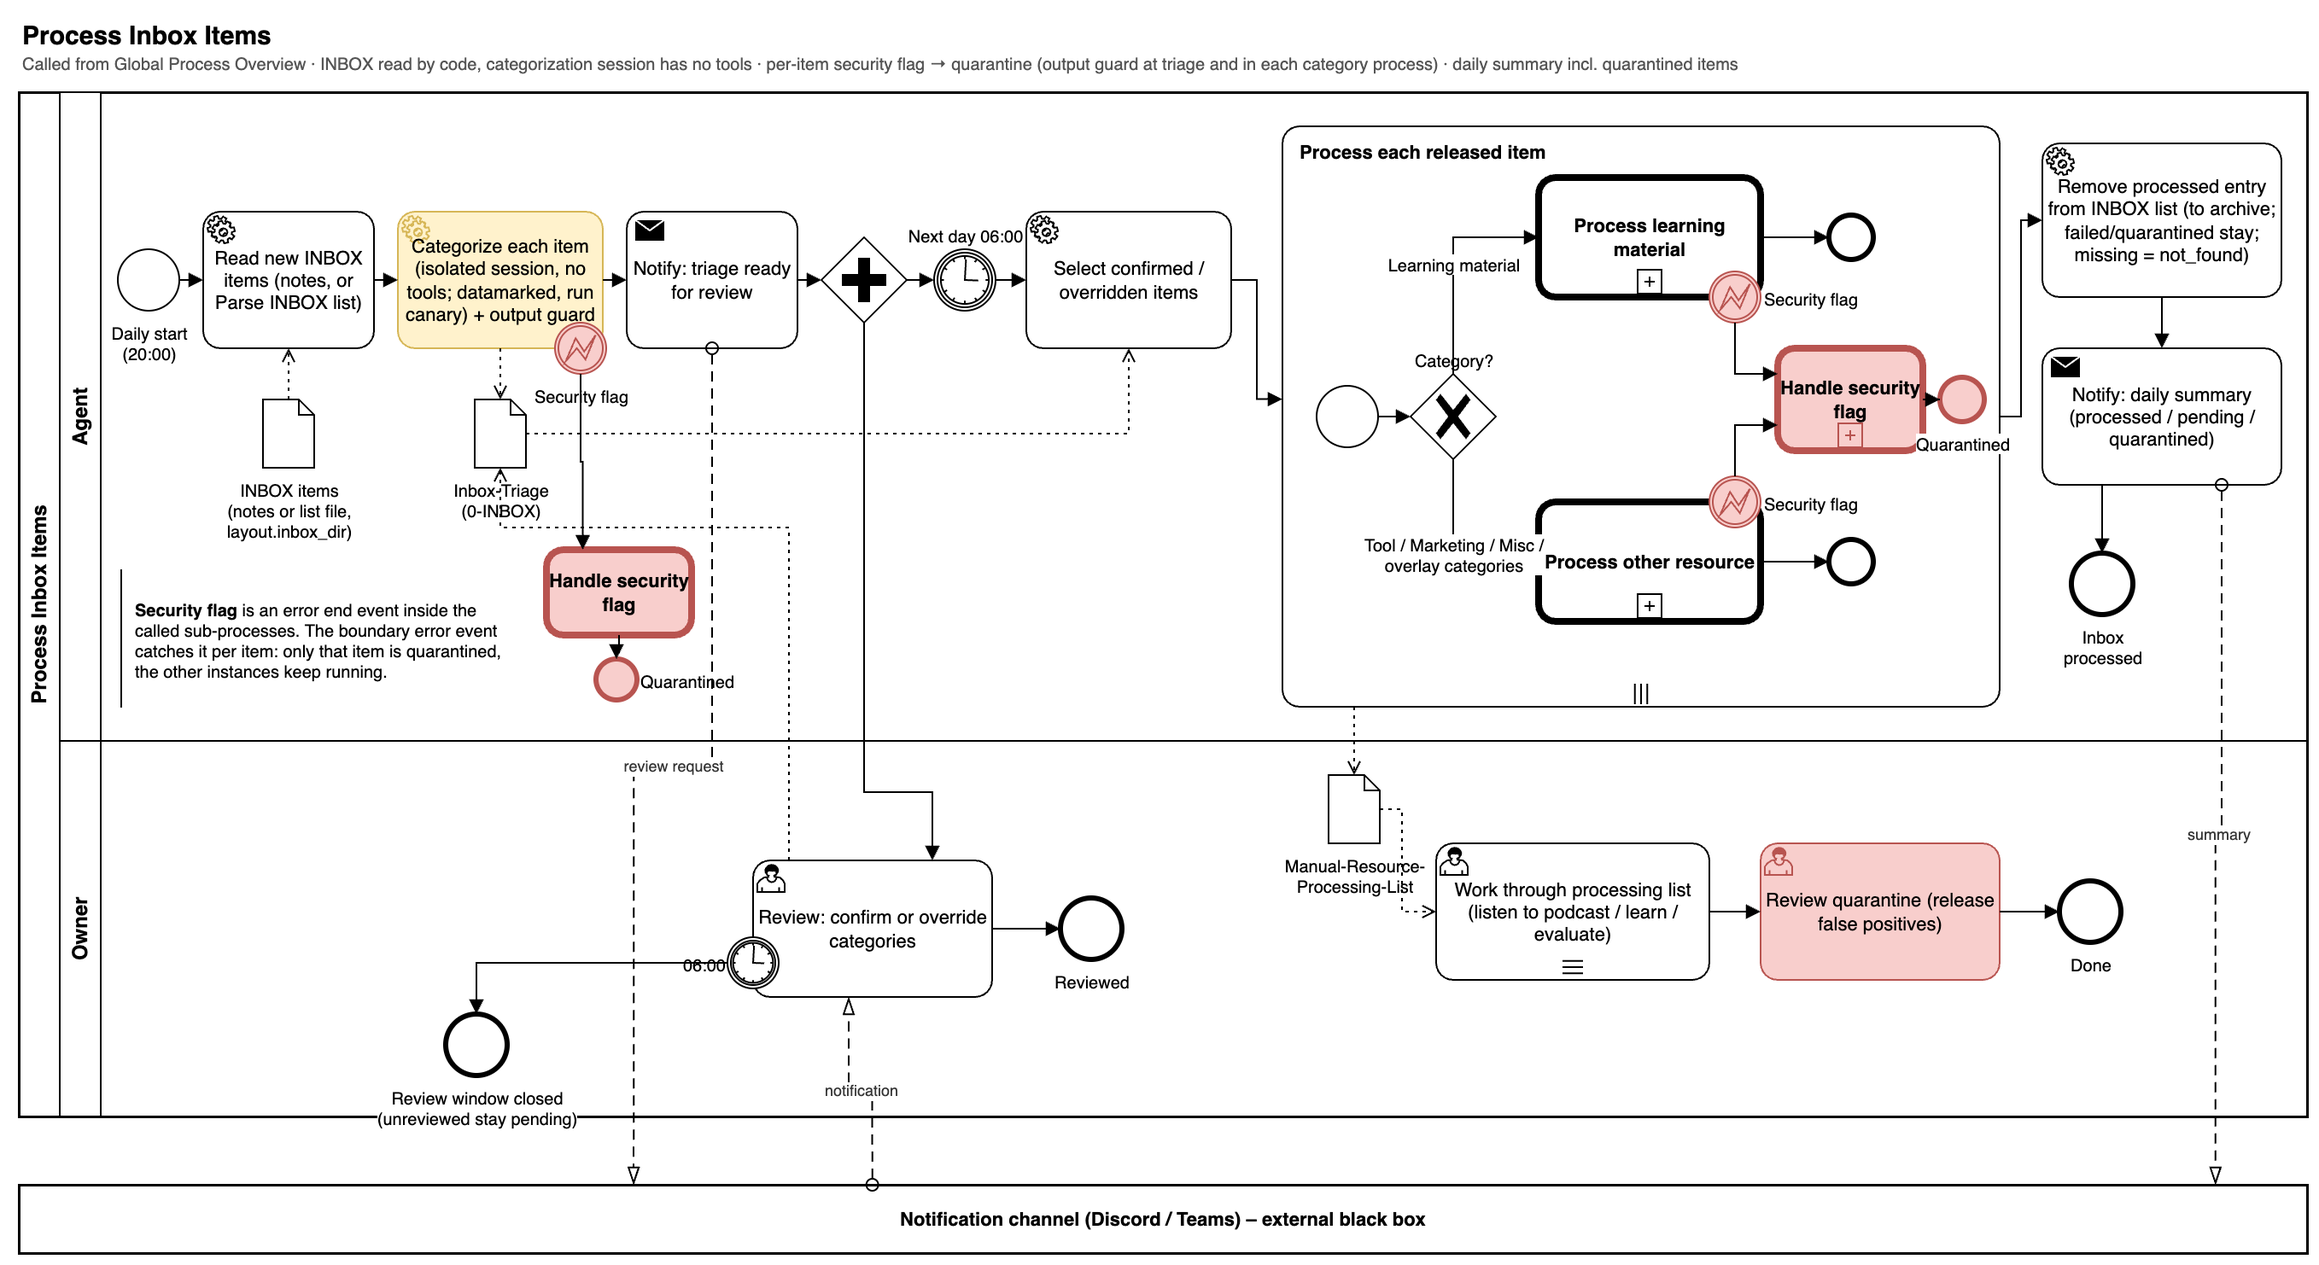
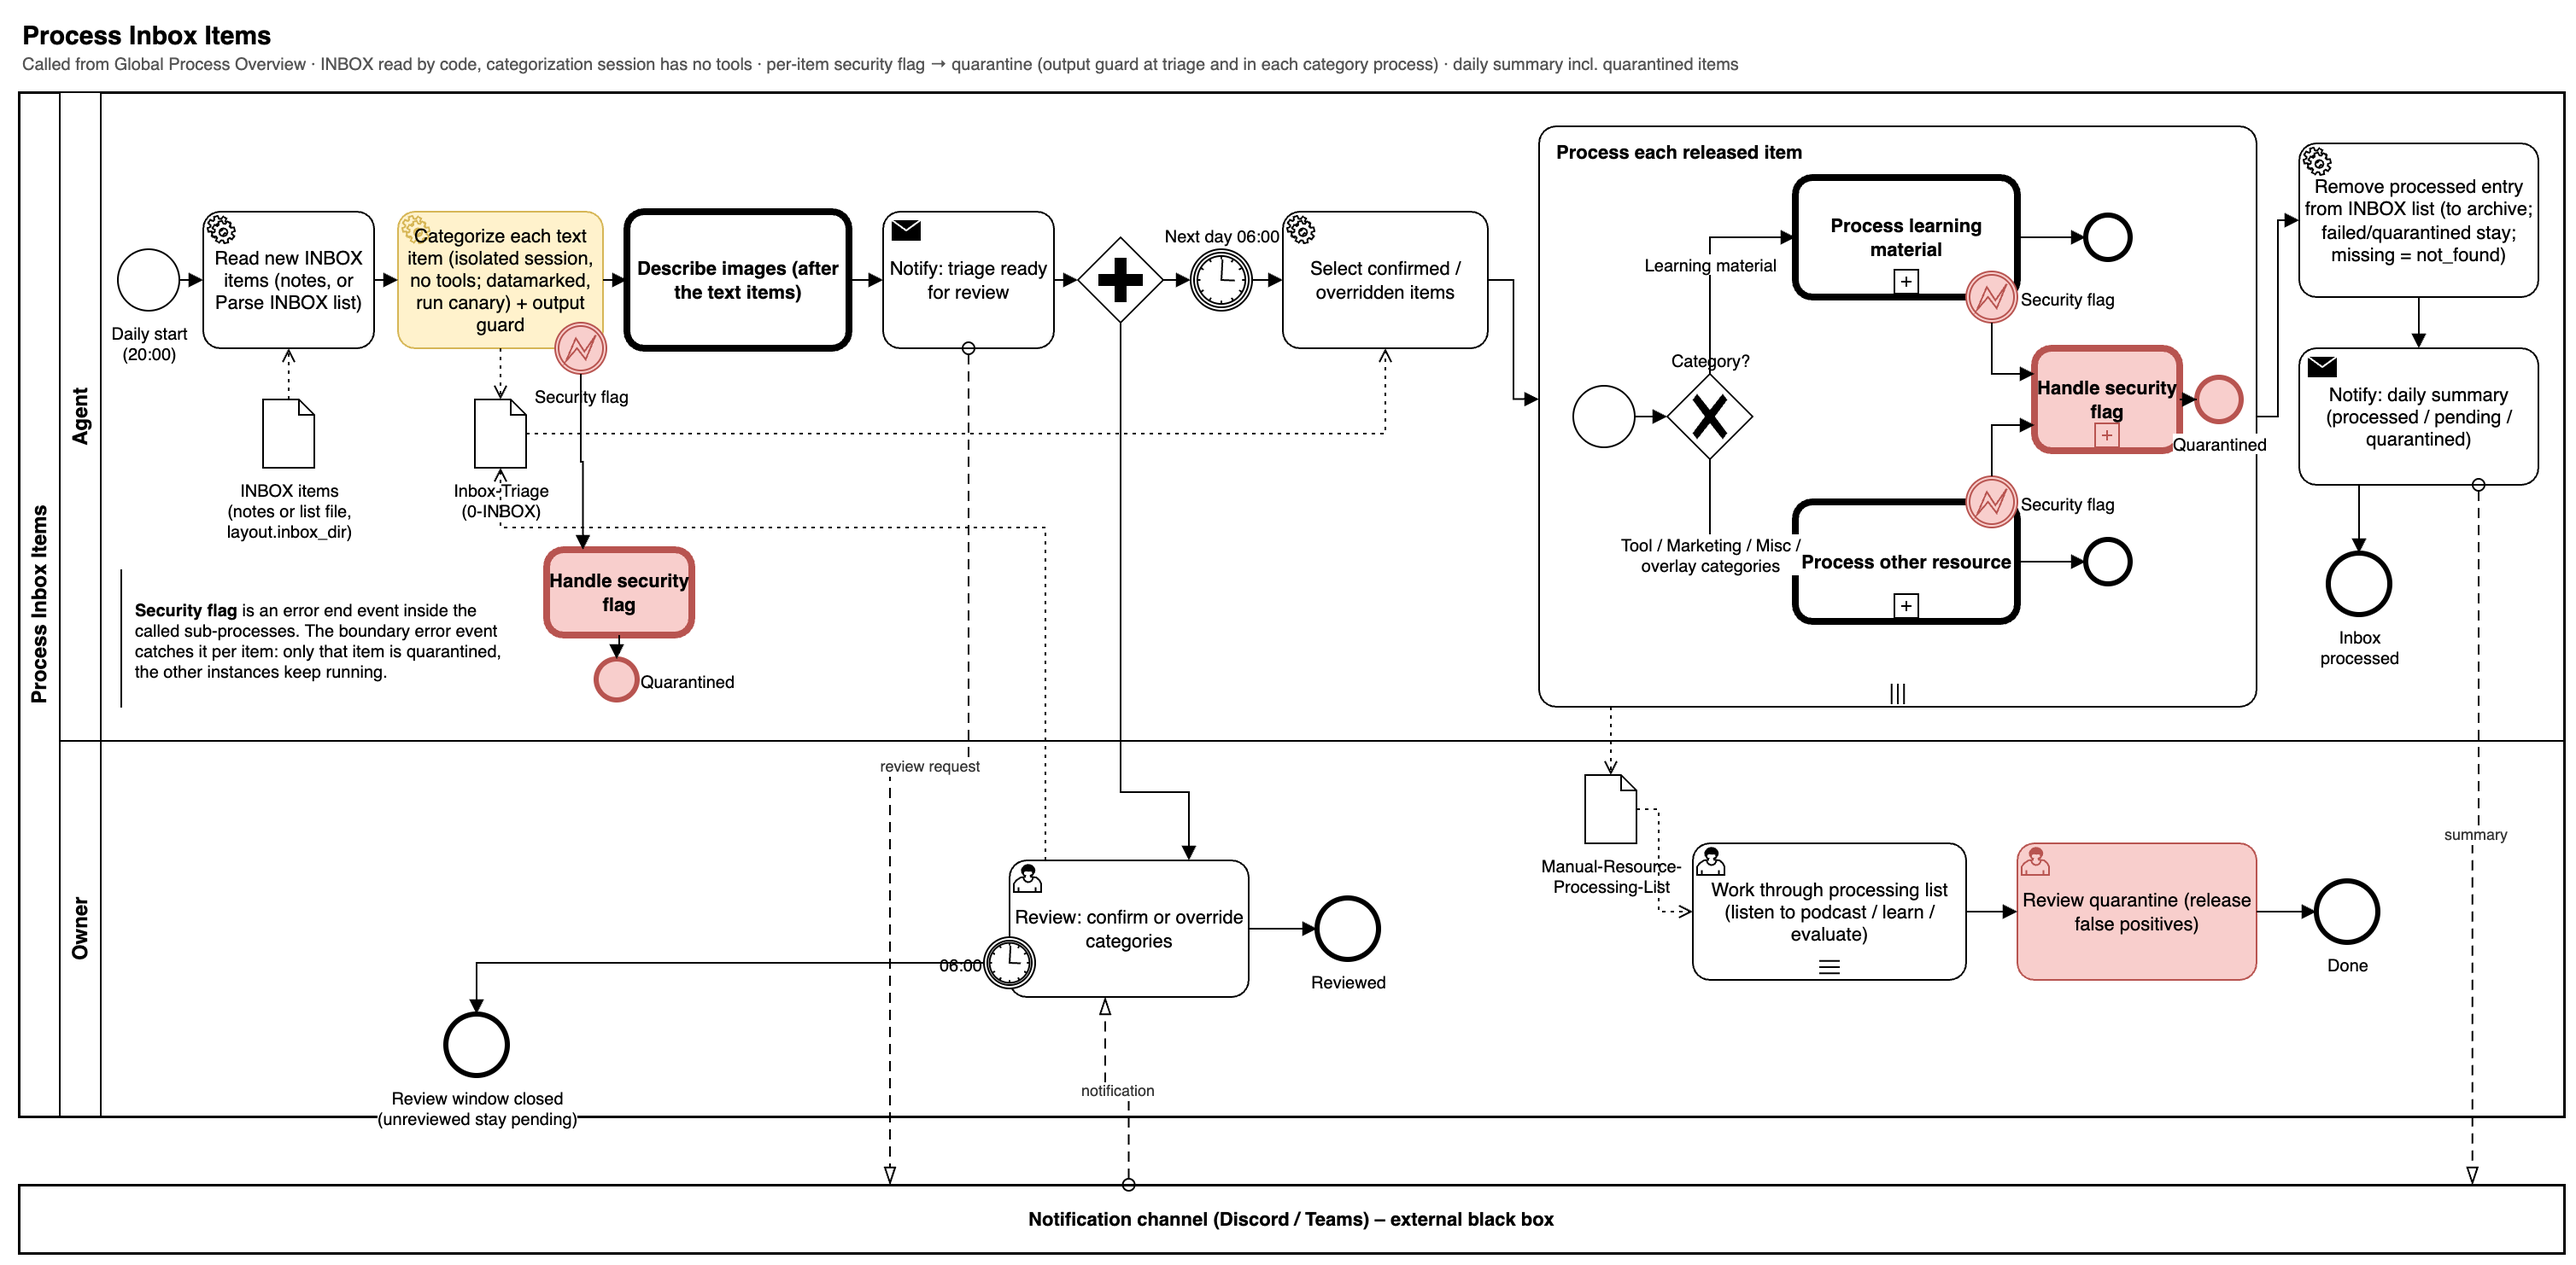
docs(bpmn): describe images sub-process with the time-budget loop (spec 021)

diff --git a/docs/process/describe-images.md b/docs/process/describe-images.md
@@ -1,0 +1,55 @@
+---
+title: Describe Images
+sidebar_position: 13
+---
+
+# Describe Images
+
+Sub-process of [Process Inbox Items](process-inbox-items.md) (spec 021), called after the text items have been categorized. An image entry of the INBOX list is read by the vault server (`read_image`, `attachments_dir` is read-only), prepared by code (EXIF removal, scaling, hash), looked up in the description cache, and otherwise described by a local vision model in a session without tools. The description passes the output guard and the canary check before the existing category session sees it; a suspected injection goes to Handle Security Flag and only that image is quarantined.
+
+The batch is bounded by a time budget, not by a count. At the start the guard counts the images that need a model call and reports `count × per-image estimate` (seed: median of the last runs from the timing table, else `images.estimate_s`). Before every image it stops when `elapsed + estimate` reaches `images.time_budget_s` (default 2 hours): that image and the rest stay in the INBOX list untouched, with no row and no removal, and are first in line the next day. After every image the estimate becomes the mean of the images done in this run. A boundary timer (`images.per_image_timeout_s`, 300 s) sends one stuck image to `needs_owner` so it cannot spend the budget. One model (`gemma-4-12b`) stays loaded for the whole run, and the images get the time that is left of the cycle after the text items. The batch report is written in both exits (budget reached, or no images left).
+
+![Describe Images](../img/bpmn/describe-images.png)
+
+```mermaid
+flowchart LR
+    s((Image entries<br/>in INBOX list)) --> t1[Count images that need a model call<br/>cache hits are free<br/>estimate = count x per-image estimate<br/>seed: median of last runs, else images.estimate_s] --> t2[Report the estimate<br/>log, notification] --> gm{ } --> gl{Images left?}
+    gl -- yes --> g1{"elapsed + estimate #lt; time budget?<br/>images.time_budget_s, default 2 h"}
+    gl -- no --> gj{ }
+    g1 -- no --> td[Leave this and the remaining images in the INBOX untouched<br/>no row, no removal<br/>count them as deferred] --> gj
+    g1 -- "yes" --> one
+    subgraph one [Describe one image]
+        ms(( )) --> rd[read_image<br/>vault tool, attachments_dir read-only] --> pr[Prepare, code<br/>EXIF removal, scale, hash] --> gc{Cache hit?}
+        gc -- no --> de[Describe<br/>local vision model, no tools, one retry]
+        de -. "per-image timeout 300 s" .-> ef((Item needs_owner<br/>failed))
+        gc -- "yes, free" --> gd
+        de --> gd[Output guard + canary<br/>visible_text, topic] --> gf{Injection suspected /<br/>guard flag?}
+        gf -- yes --> hq[[Handle security flag]] --> eq((Quarantined))
+        gf -- no --> pa[Pass the description to the<br/>existing category session] --> up[Update estimate<br/>mean of images done in this run] --> ei((Image done))
+    end
+    one -- next image --> gm
+    gj --> rp[Write batch report<br/>processed, cached, failed, deferred<br/>estimate start / end, elapsed] --> gs{Stopped by budget?}
+    gs -- yes --> e1((Deferred to next day))
+    gs -- no --> e2((All images processed))
+    pr -.-> dc[(Description cache, app DB)]
+    up -.-> dt[(Timing table, app DB)]
+    t2 -. estimate .-> nc[/Discord or Teams/]
+    rp -. batch report .-> nc
+    de -. image + prompt .-> lm[/Local model server, loopback/]
+```
+
+## Implementation (spec 021, planned)
+
+| BPMN element | Code | Notes |
+| --- | --- | --- |
+| Count and estimate, Report the estimate, budget gateway, Update estimate, Leave the rest untouched | Code step `image.budget` (FR-014) | Pure function with an injectable clock: counts uncached images, estimates, decides `continue` or `stop` before every image, records per-image seconds; a deferred item gets no row and no removal |
+| Time budget, estimate seed, timeout | `config/images.json`: `time_budget_s` (7200), `estimate_s` (60), `per_image_timeout_s` (300) | The seed is the median of the last 50 timing rows of the model |
+| read_image | Vault tool `read_image` (FR-004) | Basename only, extensions `jpg jpeg png webp gif`, size limit; `attachments_dir` is read-only (FR-010) |
+| Prepare | Code step `image.prepare` (FR-005) | EXIF removal, scaling to `images.max_side`, JPEG re-encode; the hash of the prepared bytes is the cache key |
+| Cache hit? | Description cache table in the app DB (FR-012) | Key: hash, model, prompt version; the triage row shows `topic` only |
+| Describe | Session `describe_image` (FR-006), data class `image` (FR-009) | No tools, loopback model only, `max_tokens`, one retry, then `needs_owner` |
+| per-image timeout (300 s) | Per-image timeout around the model call | Counts as a failure of that image; the loop continues |
+| Output guard + canary | Output guard and canary rules of spec 009 (FR-007) | On `visible_text` and `topic`; URLs found in the image pass the URL policy first |
+| Handle security flag | [Handle Security Flag](handle-security-flag.md) | Only that image is quarantined |
+| Pass the description to the category session | Triage image branch (FR-008) | The extract of an image item is its description; the categorizing session is the existing one |
+| Write batch report | `ImageBatchReport` (run output and notification) | `images_total`, `cached`, `described`, `failed`, `deferred`, `estimate_start_s`, `estimate_end_s`, `elapsed_s`, `stopped_by_budget` |

diff --git a/docs/process/process-inbox-items.md b/docs/process/process-inbox-items.md
@@ -5,16 +5,16 @@ sidebar_position: 2
 
 # Process Inbox Items
 
-At 20:00 the agent reads the new INBOX items through the vault port (the `obsidian-vault` MCP server or a plain file-system adapter). Reading is a deterministic code step, not a model decision: the categorization session itself has no tools and receives each item's URL, title and note as datamarked input. It suggests a category per item (the session carries the run's canary) and the output guard checks the reply before the triage file is written: a flagged item goes to Handle Security Flag and its row is written as `quarantined` without a trusted category, while the other items continue; the owner is notified. At 06:00 only confirmed or overridden items are released; the rest stays pending and is listed again in the next notification. Each released item runs in its own instance; a security flag in one item quarantines only that item.
+At 20:00 the agent reads the new INBOX items through the vault port (the `obsidian-vault` MCP server or a plain file-system adapter). Reading is a deterministic code step, not a model decision: the categorization session itself has no tools and receives each item's URL, title and note as datamarked input. It suggests a category per item (the session carries the run's canary) and the output guard checks the reply before the triage file is written: a flagged item goes to Handle Security Flag and its row is written as `quarantined` without a trusted category, while the other items continue; the owner is notified. At 06:00 only confirmed or overridden items are released; the rest stays pending and is listed again in the next notification. Each released item runs in its own instance; a security flag in one item quarantines only that item. After the text items, the sub-process [Describe Images](describe-images.md) (spec 021) describes the image entries with a local vision model within a time budget; the description goes to the same category session, and images that do not fit the budget stay in the INBOX list for the next day.
 
-With an `inbox_list_file` in the layout the INBOX is one list: Parse INBOX list turns every bullet entry (link, image embed, text with a link, plain text) into one item, identified by its normalised resource; image entries get no model suggestion and wait for the owner's category. After the item is processed, Remove processed entry from INBOX list moves its entries into the dated archive file and leaves the rest of the list as it was.
+With an `inbox_list_file` in the layout the INBOX is one list: Parse INBOX list turns every bullet entry (link, image embed, text with a link, plain text) into one item, identified by its normalised resource; image entries are described by Describe Images (spec 021) and then categorized like text items. After the item is processed, Remove processed entry from INBOX list moves its entries into the dated archive file and leaves the rest of the list as it was.
 
 ![Process Inbox Items](../img/bpmn/process-inbox-items.png)
 
 ```mermaid
 flowchart LR
     inb[(INBOX notes or list file)] -.-> read
-    s((20:00)) --> read[Read new INBOX items<br/>vault port, code<br/>notes, or Parse INBOX list] --> cat[Categorize each item<br/>isolated session, no tools, run canary<br/>+ output guard] --> ntf[Notify: triage ready] --> par{{+}}
+    s((20:00)) --> read[Read new INBOX items<br/>vault port, code<br/>notes, or Parse INBOX list] --> cat[Categorize each text item<br/>isolated session, no tools, run canary<br/>+ output guard] --> di[[Describe images<br/>after the text items, time budget]] --> ntf[Notify: triage ready] --> par{{+}}
     cat -. security flag .-> tq[[Handle security flag]] --> tqe((Quarantined))
     par --> tm((06:00)) --> sel[Select confirmed /<br/>overridden items]
     par --> rev[Owner: confirm or override] --> rd((Reviewed))

diff --git a/docs/bpmn.md b/docs/bpmn.md
@@ -20,6 +20,7 @@ The process model is BPMN 2.0, drawn in draw.io: `docs/design/pkpipe-process-mod
 | 10 | [System Tool Candidates](process/system-tool-candidates.md) |
 | 11 | [Wait for Generation Result](process/wait-for-generation-result.md) |
 | 12 | [Restore Run](process/restore-run.md) |
+| 13 | [Describe Images](process/describe-images.md) |
 
 ## Notation
 
@@ -34,7 +35,7 @@ The process model is BPMN 2.0, drawn in draw.io: `docs/design/pkpipe-process-mod
 D=/Applications/draw.io.app/Contents/MacOS/draw.io   # draw.io desktop CLI
 cd docs
 i=1
-for n in global-process-overview process-inbox-items process-learning-material process-other-resource secure-fetch run-category-sessions handle-security-flag refresh-project-contexts self-improvement-cycle system-tool-candidates wait-for-generation-result restore-run; do
+for n in global-process-overview process-inbox-items process-learning-material process-other-resource secure-fetch run-category-sessions handle-security-flag refresh-project-contexts self-improvement-cycle system-tool-candidates wait-for-generation-result restore-run describe-images; do
   $D -x -f png -s 2 -b 10 -p $i -o img/bpmn/$n.png design/pkpipe-process-model.drawio
   i=$((i+1))
 done

diff --git a/specs/021-image-input/tasks.md b/specs/021-image-input/tasks.md
@@ -39,5 +39,5 @@ Format: `- [ ] T001 [USx] Description` · `[USx]` = user story
 ## Phase: Polish
 
 - [ ] T013 [P] Docs (configuration, operations: model memory and throughput, security), CHANGELOG
-- [ ] T014 [P] BPMN: drawio, PNG, Mermaid together; the "Describe images" sub-process with the time-budget loop and the per-image timer (see the plan)
+- [ ] T014 [P] BPMN: drawio, PNG, Mermaid together; the "Describe images" sub-process with the time-budget loop and the per-image timer (see the plan) (diagram drawn 2026-11-05)
 - [ ] T015 Release notes: spec 020 sentences on images updated (done in this draft)
